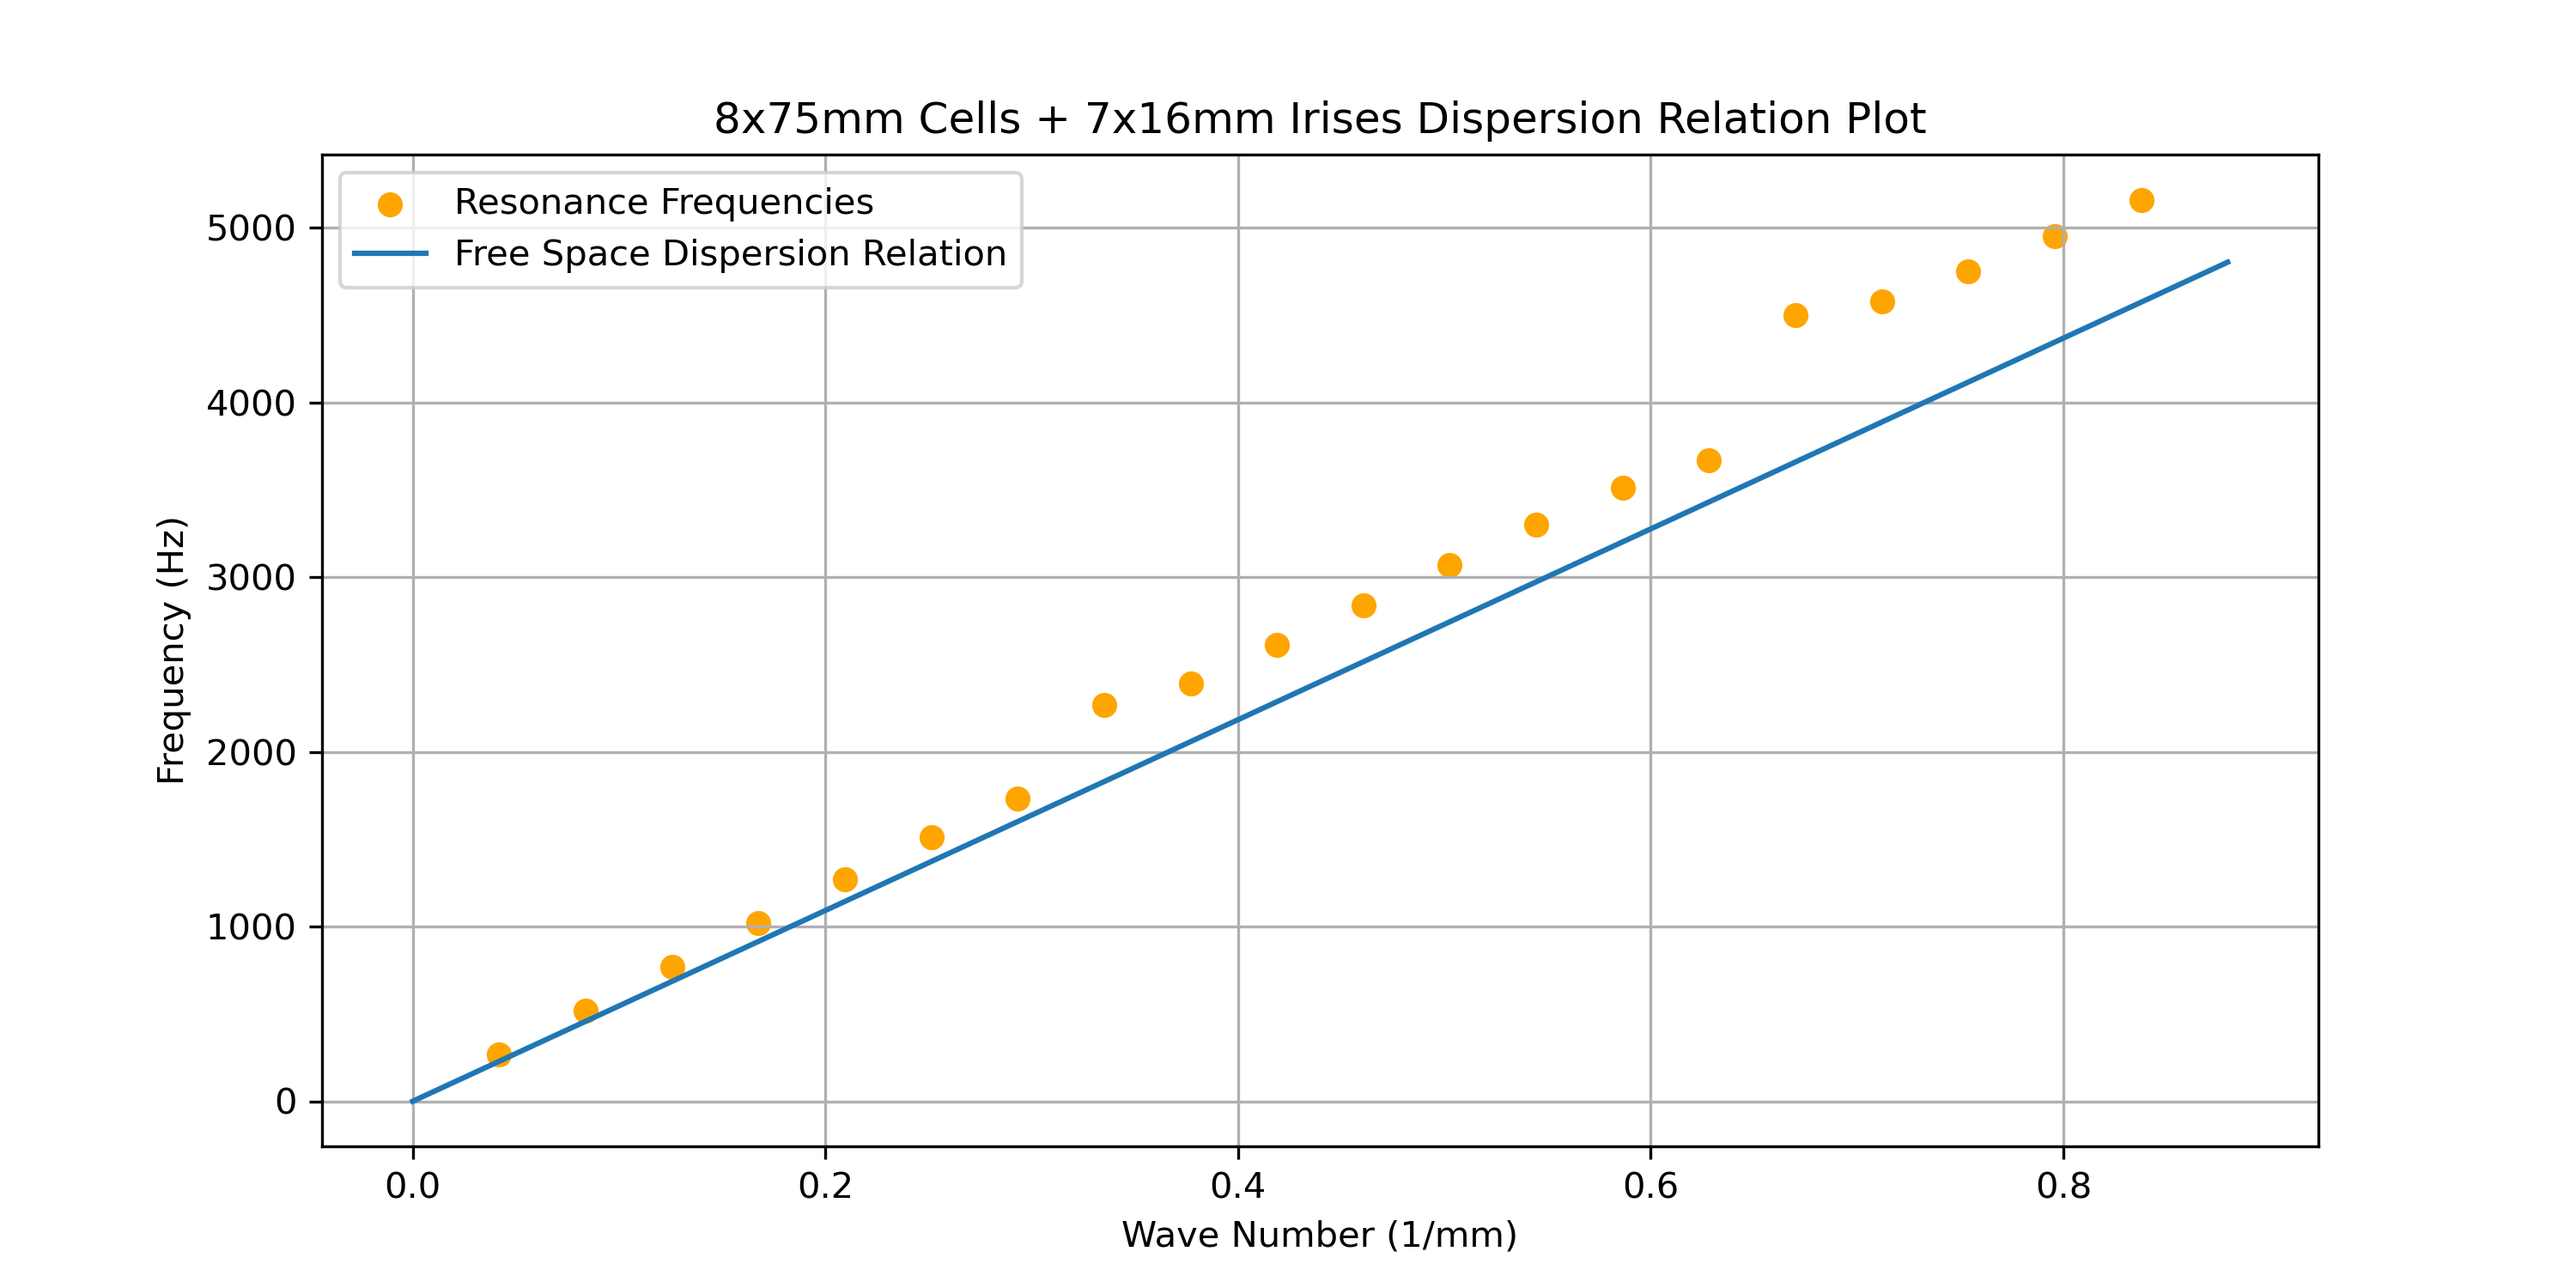
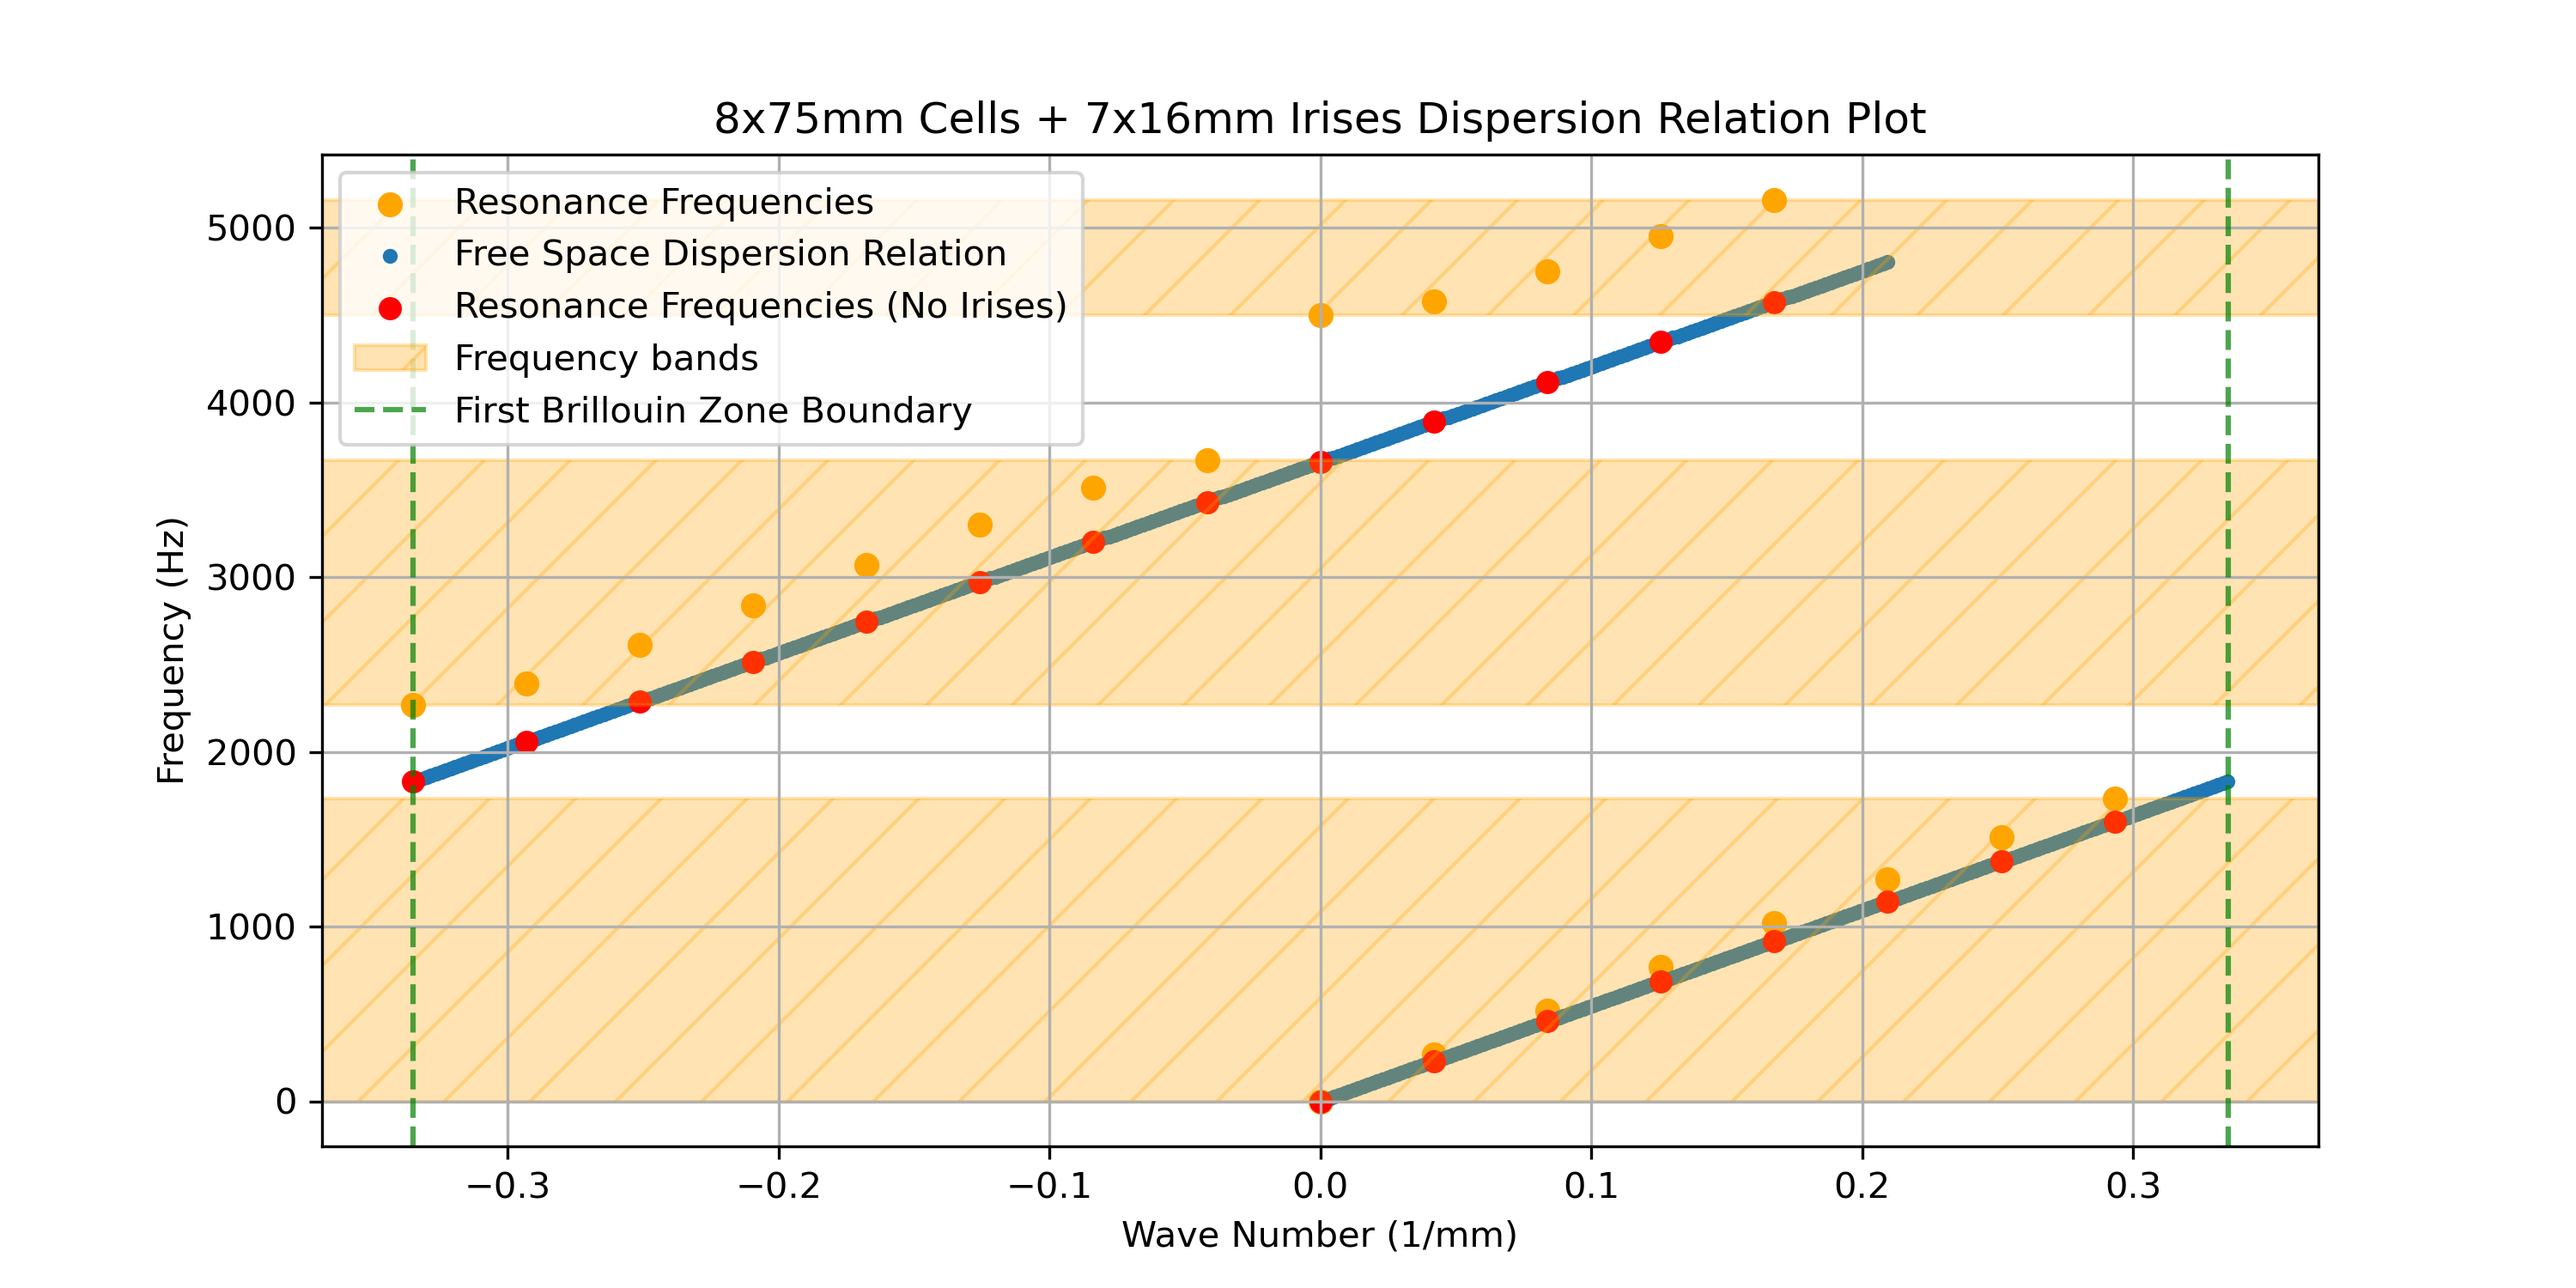
Corrected Exp4 plots

diff --git a/A2/analysis/MPL_A2-Data-Analysis.py b/A2/analysis/MPL_A2-Data-Analysis.py
@@ -25,6 +25,7 @@ class Spectrum:
     Args:
         fname (str): Target data file name relative to the data directory "../data/". 
         tubelen (float): Tube length (mm). 
+        unum (int): Number of unit cells, e.g., number of 5/7.5 mm cells. 
         wsize (int, optional): Peak windowing size. Defaults to 5. 
         ampthrs: (int, optional): Frequency peak threshold amplitude. Defaults 
             to None. 
@@ -33,6 +34,8 @@ class Spectrum:
     fname: str
     # tube length (mm)
     tubelen: float
+    # number of unit cells, e.g. number of 5/7.5 mm tubes
+    unum: int
     # peak windowing size
     wsize: int = 5
     # peak threshold amplitude
@@ -197,8 +200,8 @@ class Spectrum:
         plt.close(self.specplot) # Close so that the plot is not displayed further
 
     @staticmethod
-    def remove_ignore_freqs( removed_freqs: list[float], all_freqs: list[float],
-            ignore_freqs: list[float], allowed_freqs: int):
+    def adjust_freqs(removed_freqs: list[float], all_freqs: list[float],
+                     ignore_freqs: list[float], add_freqs: list[float], allowed_freqs: int):
         """Remove ignored frequencies from auto-detected peak frequencies.
 
         Args: 
@@ -208,6 +211,10 @@ class Spectrum:
             ignore_freqs (list[float]): Frequencies to ignore.
             allowed_freqs (int): Maximum number of resonance frequencies to plot.
         """
+
+        # Manually add frequencies into all_freqs array
+        all_freqs += add_freqs 
+        all_freqs.sort()
 
         i, j = 0, 0
         while i < len(all_freqs) and j < len(ignore_freqs) and len(removed_freqs) < allowed_freqs:
@@ -225,8 +232,9 @@ class Spectrum:
             i += 1
 
     def plot_dispersion_relation(self, figname: str, tname: str, 
-            showfig: bool = True, allowed_freqs: int = 20, 
-            ignore_freqs: list[float] | None = None):
+             showfig: bool = True, allowed_freqs: int = 20, 
+             ignore_freqs: list[float] | None = None,
+             add_freqs: list[float] | None = None):
         """Plot resonance frequencies f to wave numbers k_n.
 
         Note that the 0-th order resonance appear at k = 0 which is not observable. 
@@ -242,19 +250,31 @@ class Spectrum:
             ignore_freqs (list[float], optional): List of frequencies to ignore. 
                 Defaults to None. 
         """
-        # Initialize ignored frequencies
+        # Initialize ignored and added frequencies
         if ignore_freqs is None:
             ignore_freqs = []
+        if add_freqs is None:
+            add_freqs = []
 
         # Resonance frequency array and wave number array used in plot
-        rwavenum = [n * self.basewavenum for n in range(1, allowed_freqs + 1)]
+        # Additionally added n = 0 resonance (freq, wavenum) = (0, 0)
+        # ((n + self.unum) % (2 * self.unum) - self.unum): keeps wavenum in 
+        # first Brillouin zone 
+        rwavenum = [((n + self.unum) % (2 * self.unum) - self.unum) 
+                    * self.basewavenum for n in range(0, allowed_freqs + 1)]
         rfreq = []
-        Spectrum.remove_ignore_freqs(rfreq, [x[0] for x in self.pklist], 
-                ignore_freqs, allowed_freqs)
+        Spectrum.adjust_freqs(rfreq, [x[0] for x in self.pklist], 
+                ignore_freqs, add_freqs, allowed_freqs)
+        rfreq = [0.0] + rfreq
 
         # Free space dispersion line
-        fwavenum = np.linspace(0, (allowed_freqs + 1) * self.basewavenum, 300)
-        ffreq = np.linspace(0, (allowed_freqs + 1) * self.basefreq, 300)
+        ffreq = np.linspace(0, (allowed_freqs + 1) * self.basefreq, 500)
+        # No irises resonance frequencies
+        fresfreq = [n * self.basefreq for n in range(0, allowed_freqs + 1)]
+        fwavenum = np.linspace(0, (allowed_freqs + 1) * self.basewavenum, 500)
+        # Again keep wavenum in first Brillouim zone
+        halfbzlen = self.unum * self.basewavenum
+        fwavenum = (fwavenum + halfbzlen) % (2 * halfbzlen) - halfbzlen
 
         # Construct figure
         self.dispplot, self.dispax = plt.subplots(figsize=(10, 5))  
@@ -262,7 +282,29 @@ class Spectrum:
         # Plot data
         self.dispax.scatter(rwavenum, rfreq, label="Resonance Frequencies", 
                 c = "orange")
-        self.dispax.plot(fwavenum, ffreq, label="Free Space Dispersion Relation") 
+        self.dispax.scatter(fwavenum, ffreq, s = 10, 
+                            label="Free Space Dispersion Relation") 
+        self.dispax.scatter(rwavenum, fresfreq, s = 30, 
+                            label="Resonance Frequencies (No Irises)", c = "red") 
+
+        # Draw freuquency (energy) bands
+        l = 0
+        while l < len(rfreq):
+            r = min(l + self.unum - 1, len(rfreq) - 1)
+            if l == 0:
+                self.dispax.axhspan(rfreq[l], rfreq[r], color="orange",
+                                    alpha=0.3, hatch="/", label = "Frequency bands")
+            else:
+                self.dispax.axhspan(rfreq[l], rfreq[r], color="orange",
+                                    alpha=0.3, hatch="/")
+            l += self.unum
+
+        # Draw first Brillouin zone
+        # self.dispax.axvspan(-halfbzlen, halfbzlen, color="green",
+        #                     alpha=0.3, hatch="\\", label="First Brillouin Zone")
+        self.dispax.axvline(x = halfbzlen, color='green', linestyle='--', 
+                            alpha=0.7, label = "First Brillouin Zone Boundary")
+        self.dispax.axvline(x = -halfbzlen, color='green', linestyle='--', alpha=0.7)
 
         # Plot information
         self.dispax.set_xlabel("Wave Number (1/mm)")  # X-axis label
@@ -278,7 +320,8 @@ class Spectrum:
         plt.close(self.dispplot) # Close so that the plot is not displayed further
 
     def plot_DOS(self, figname: str, tname: str, showfig: bool = True, 
-            allowed_freqs: int = 20, ignore_freqs: list[float] | None = None):
+            allowed_freqs: int = 20, ignore_freqs: list[float] | None = None, 
+            add_freqs: list[float] | None = None):
         """Plot the DOS D(f_i) w.r.t the resonance frequencies f_i. 
 
         DOS formula: 
@@ -294,14 +337,16 @@ class Spectrum:
             ignore_freqs (list[float], optional): List of frequencies to ignore. 
                 Defaults to None. 
         """
-        # Initialize ignored frequencies
+        # Initialize ignored and added frequencies
         if ignore_freqs is None:
             ignore_freqs = []
+        if add_freqs is None:
+            add_freqs = []
 
         # Resonance frequency array and wave number array used in plot
         rfreq = []
-        Spectrum.remove_ignore_freqs(rfreq, [x[0] for x in self.pklist], 
-                ignore_freqs, allowed_freqs)
+        Spectrum.adjust_freqs(rfreq, [x[0] for x in self.pklist], 
+                ignore_freqs, add_freqs, allowed_freqs)
 
         # DOS calculation
         DOS = [1 / (rfreq[i + 1] - rfreq[i]) for i in range(0, len(rfreq) - 1)]
@@ -322,61 +367,61 @@ class Spectrum:
         plt.close(self.DOSplot) # Close so that the plot is not displayed further
 
 
-spec1 = Spectrum("Exp4-1-7-8cells-50mm-iris-16mm.dat", 50, ampthrs = 1)
+spec1 = Spectrum("Exp4-1-7-8cells-50mm-iris-16mm.dat", tubelen = 50, unum = 8, ampthrs = 1)
 spec1.plot_spectrum("Exp4-1-7-8cells-50mm-iris-16mm-Spectrum", 
         "8x50mm Cells + 7x16mm Irises Spectrum", annotate = True, 
-        showfig = False)
+        showfig = True)
 spec1.plot_dispersion_relation(
         "Exp4-1-7-8cells-50mm-iris-16mm-Dispersion-Relation", 
         "8x50mm Cells + 7x16mm Irises Dispersion Relation Plot", 
-        ignore_freqs = [380.0], showfig = False)
+        ignore_freqs = [380.0], showfig = True)
 spec1.plot_DOS("Exp4-1-7-8cells-50mm-iris-16mm-DOS", 
         "8x50mm Cells + 7x16mm Irises Density of States Plot", 
-        ignore_freqs = [380.0], allowed_freqs = 30, showfig = False)
+        ignore_freqs = [380.0], showfig = True, allowed_freqs = 20)
 # spec1.debug()
 # print(spec1.peaks())
 
-spec2 = Spectrum("Exp4-1-7-8cells-75mm-iris-16mm.dat", 75, ampthrs = 1)
+spec2 = Spectrum("Exp4-1-7-8cells-75mm-iris-16mm.dat", tubelen = 75, unum = 8, ampthrs = 1)
 spec2.plot_spectrum( "Exp4-1-7-8cells-75mm-iris-16mm-Spectrum", 
         "8x75mm Cells + 7x16mm Irises Spectrum", annotate = True, 
-        showfig = False)
+        showfig = True)
 spec2.plot_dispersion_relation(
         "Exp4-1-7-8cells-75mm-iris-16mm-Dispersion-Relation", 
         "8x75mm Cells + 7x16mm Irises Dispersion Relation Plot", 
-        showfig = False)
+        showfig = True)
 
-spec3 = Spectrum("Exp4-1-8-10cells-50mm-iris-16mm.dat", 50, ampthrs = 1)
+spec3 = Spectrum("Exp4-1-8-10cells-50mm-iris-16mm.dat", tubelen = 50, unum = 10, ampthrs = 1)
 spec3.plot_spectrum( "Exp4-1-8-10cells-50mm-iris-16mm-Spectrum", 
         "10x50mm Cells + 9x16mm Irises Spectrum", annotate = True, 
-        showfig = False)
+        showfig = True)
 spec3.plot_dispersion_relation(
         "Exp4-1-8-10cells-50mm-iris-16mm-Dispersion-Relation", 
         "10x50mm Cells + 9x16mm Irises Dispersion Relation Plot", 
-        showfig = False)
+        showfig = True, allowed_freqs = 25, add_freqs = [5190.0])
 
-spec4 = Spectrum("Exp4-1-8-12cells-50mm-iris-16mm.dat", 50, ampthrs = 1)
+spec4 = Spectrum("Exp4-1-8-12cells-50mm-iris-16mm.dat", tubelen = 50, unum = 12, ampthrs = 1)
 spec4.plot_spectrum( "Exp4-1-8-12cells-50mm-iris-16mm-Spectrum", 
         "12x50mm Cells + 11x16mm Irises Spectrum", annotate = True, 
-        showfig = False)
+        showfig = True)
 spec4.plot_dispersion_relation(
         "Exp4-1-8-12cells-50mm-iris-16mm-Dispersion-Relation", 
         "12x50mm Cells + 11x16mm Irises Dispersion Relation Plot", 
-        ignore_freqs = [130.0], showfig = False)
+        ignore_freqs = [130.0], showfig = True, allowed_freqs = 30, add_freqs = [5200.0])
 
-spec5 = Spectrum("Exp4-1-9-8cells-50mm-iris-10mm.dat", 50, ampthrs = 1)
+spec5 = Spectrum("Exp4-1-9-8cells-50mm-iris-10mm.dat", tubelen = 50, unum = 8, ampthrs = 1)
 spec5.plot_spectrum( "Exp4-1-9-8cells-50mm-iris-10mm-Spectrum", 
         "8x50mm Cells + 7x10mm Irises Spectrum", annotate = True, 
-        showfig = False)
+        showfig = True)
 spec5.plot_dispersion_relation(
         "Exp4-1-9-8cells-50mm-iris-10mm-Dispersion-Relation", 
         "8x50mm Cells + 7x10mm Irises Dispersion Relation Plot", 
-        ignore_freqs = [210.0], showfig = False)
+        ignore_freqs = [210.0], showfig = True, allowed_freqs = 20, add_freqs = [4300.0])
 
-spec6 = Spectrum("Exp4-1-9-8cells-50mm-iris-13mm.dat", 50, ampthrs = 1)
+spec6 = Spectrum("Exp4-1-9-8cells-50mm-iris-13mm.dat", tubelen = 50, unum = 8, ampthrs = 1)
 spec6.plot_spectrum( "Exp4-1-9-8cells-50mm-iris-13mm-Spectrum", 
         "8x50mm Cells + 7x13mm Irises Spectrum", annotate = True, 
-        showfig = False)
+        showfig = True)
 spec6.plot_dispersion_relation(
         "Exp4-1-9-8cells-50mm-iris-13mm-Dispersion-Relation", 
         "8x50mm Cells + 7x13mm Irises Dispersion Relation Plot", 
-        ignore_freqs = [350.0], showfig = False)
+        ignore_freqs = [350.0], showfig = True, allowed_freqs = 20)
